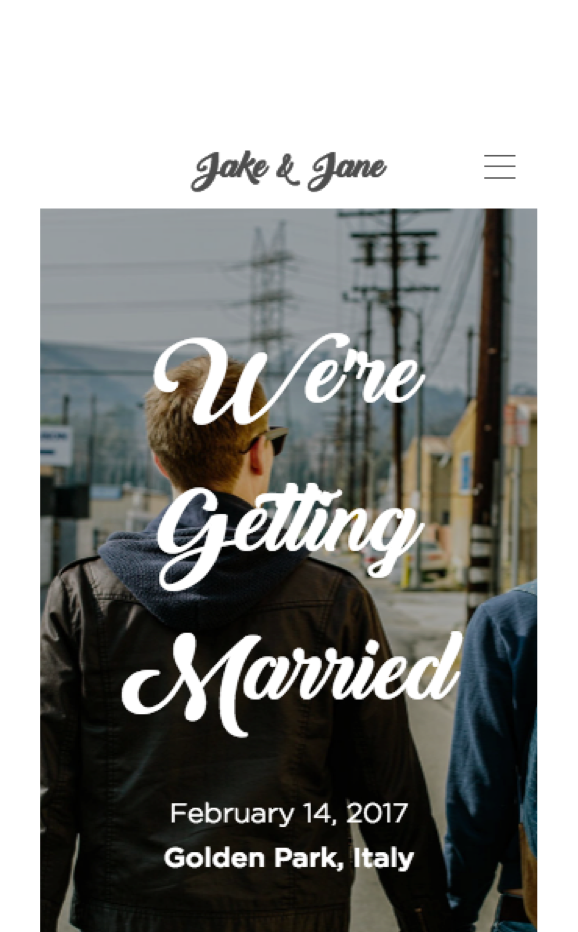
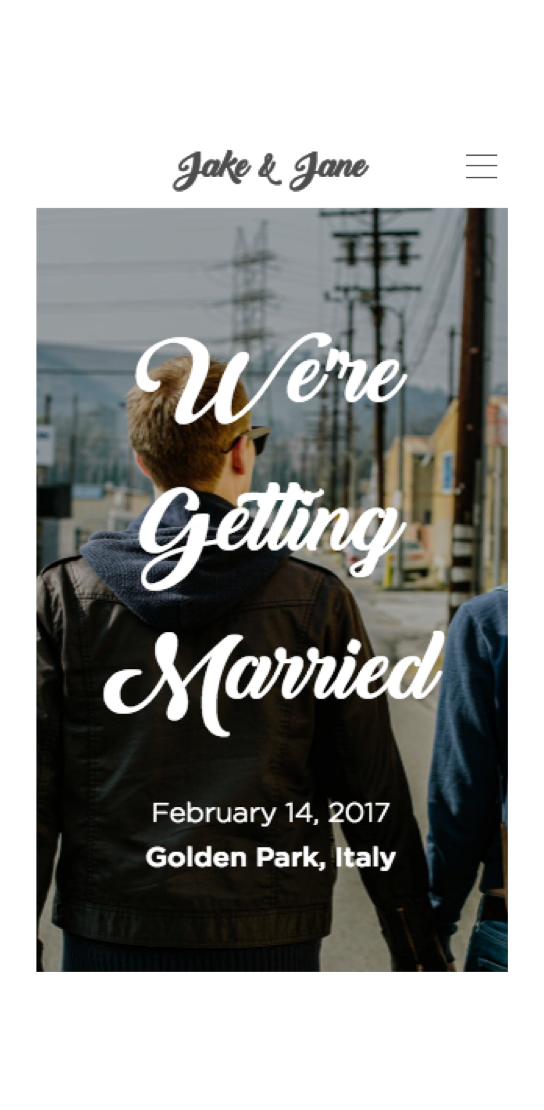
Implement responsiveness on mobile and tablet

diff --git a/_includes/home/cover.html b/_includes/home/cover.html
@@ -2,7 +2,7 @@
     <div class="top-section">
         <div class="item-1">
             <div class="content-container">
-                <h1 class="content-header">Need A wedding website?</h1>
+                <h1 class="content-header">Need a wedding website?</h1>
                 <p class="content-description">We build beautiful wedding websites fast. Share your personality and take
                     care of your guests. We use
                     templates of your choice and customize your website to your content.</p>
@@ -11,8 +11,8 @@
         </div>
         {% for item in site.data.webpage limit: 2 %}
         <div class="item-container item-{{ item.item-id }}">
-            <div class="item style-{{ item.style-id }} no-gutter" style="background-image: url('/img/{{ item.image }}'); background-color: #{{ item.background-color }};"></div>
-            <div class="caption">
+            <div class="item style-{{ item.style-id }} no-gutter" data-url="https://crux-wedding.github.io/wedding-template{{ item.url-id }}" style="background-image: url('/img/{{ item.image }}'); background-color: #{{ item.background-color }};"></div>
+            <div class="caption hidden-md hidden-sm hidden-xs">
                 <a href="https://crux-wedding.github.io/wedding-template{{ item.url-id }}" target="_blank" class="caption-button">PREVIEW</a>
             </div>
         </div>
@@ -21,8 +21,8 @@
     <div class="bottom-section">
         {% for item in site.data.webpage offset: 2 %}
         <div class="item-container item-{{ item.item-id }}">
-            <div class="item style-{{ item.style-id }} no-gutter" style="background-color: #{{ item.background-color }}; background-image: url('/img/{{ item.image }}');"></div>
-            <div class="caption">
+            <div class="item style-{{ item.style-id }} no-gutter" data-url="https://crux-wedding.github.io/wedding-template{{ item.url-id }}" style="background-color: #{{ item.background-color }}; background-image: url('/img/{{ item.image }}');"></div>
+            <div class="caption hidden-md hidden-sm hidden-xs">
                 <a href="https://crux-wedding.github.io/wedding-template{{ item.url-id }}" target="_blank" class="caption-button">PREVIEW</a>
             </div>
         </div>

diff --git a/_sass/home.sass b/_sass/home.sass
@@ -40,6 +40,8 @@ body
         max-width: 90%
         min-width: 90%
         margin: 0 auto
+        .content-header
+          margin: 0
         .content-description
           font-size: 16px
           line-height: 30px
@@ -108,7 +110,7 @@ body
           height: inherit
           &.style-2
             background-size: 50%
-            background-position: center bottom
+            background-position: center 50px
           &.style-3
             background-size: 90%
             background-position: center center
@@ -134,4 +136,56 @@ body
             background-color: white
             color: #555555
             padding: 20px 50px
+
+@media (max-width: $screen-md-max)
+  #cover
+    .top-section
+      .item-1
+        .content-container
+          .content-header
+            font-size: 28px
+
+@media (max-width: $screen-sm-max)
+  #cover
+    .top-section
+      .item-1
+        width: 100%
+      .item-container
+        &.item-2
+          width: 50%
+    .bottom-section
+      .item-container
+        &.item-3
+          width: 50%
+
+@media (max-width: 800px) and (orientation: landscape)
+  #cover
+    .top-section
+      height: 100vh
+    .bottom-section
+      height: 100vh
+
+@media (max-width: 568px)
+  #cover
+    .top-section
+      height: auto
+      .item-1
+        height: 100vh
+      .item-container
+        &.item-2
+          width: 100%
+          .item
+            padding: 200px 0
+            &.style-2
+              background-position: center center
+    .bottom-section
+      height: auto
+      .item-container
+        &.item-3
+          width: 100%
+        .item
+          padding: 200px 0
+          &.style-2
+            background-position: center center !important
+
 

diff --git a/_layouts/default.html b/_layouts/default.html
@@ -26,9 +26,14 @@
 <script type="text/javascript" src="/js/bootstrap.min.js"></script>
 <script type="text/javascript">
   $(document).ready(function(){
+    if($(window).innerWidth() > 768)
+      $('.item-container').hover(function () {
+        $(this).toggleClass("active");
+      });
 
-    $('.item-container').hover(function () {
-      $(this).toggleClass("active");
+    $(".item-container").on("click",function(){
+      var itemURL = $(this).find(".item").attr("data-url");
+      window.open(itemURL,'_blank');
     });
   });
 </script>
